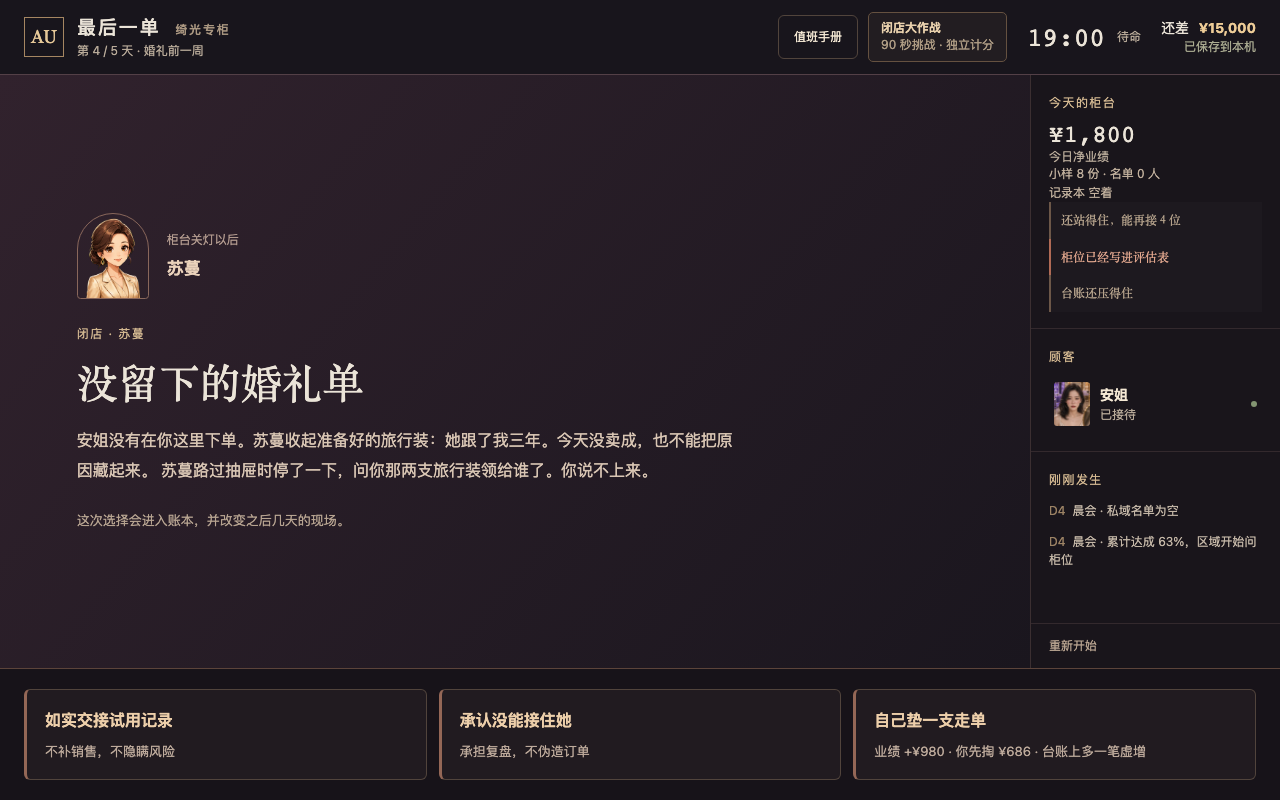
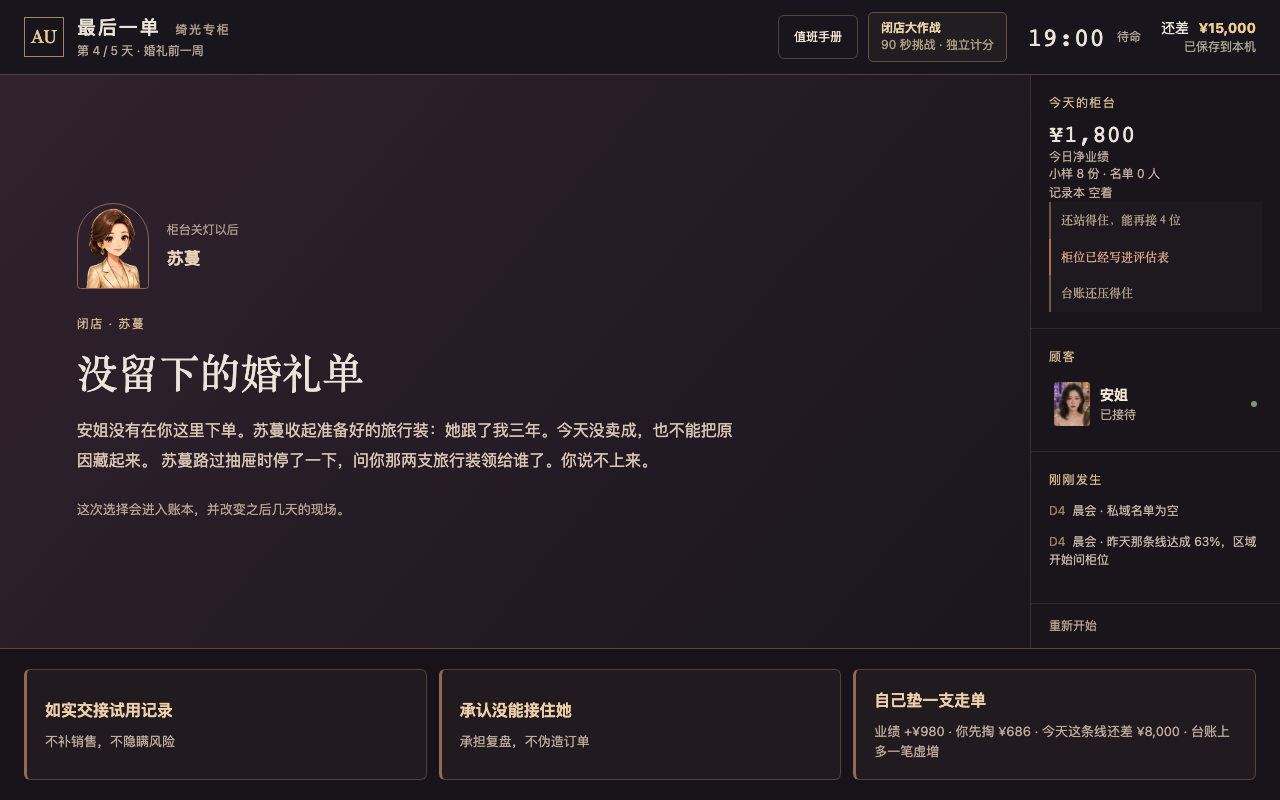
P33：晨会那一句改说「昨天那条线」，垫货那一格补写今天差多少
同一屏两个进度口径挂账三轮：125% 不是算错，是"累计"这个词把它读成了
"这一周到昨天做到哪了"。三个分支的晨会话都点名那条线，第 4 晚那一格的
第二行补上 progressTarget(day) - sales，两个时点各自有名，不用猜。
顺带撤回 P29 那句「daySales 减不出来」——它是错的，规则测试现在就拿
sales - daySales 立据。

diff --git a/dynamic-counter-prototype/rescue-e2e/advance-order.spec.ts b/dynamic-counter-prototype/rescue-e2e/advance-order.spec.ts
@@ -1,18 +1,21 @@
 // 第 4 晚那一格「自己垫一支走单」（调研：KPI 完不成时 BA 自掏腰包囤货，见 audit/research-2026-09 第三节）。
 // 沙盘这一屏守的是：落后的人才看得见它、按钮第二行写清掏多少和涨多少、钱只进一次只写一行、
-// 第 5 早按唐可出不出得掉念不同的那一句。钱数怎么分岔归规则单测管（tests/campaign-rules.test.ts）。
+// 第 5 早按唐可出不出得掉念不同的那一句。P33 加的那一条：这一格按的是"今天这条线"，差额写在按钮上，
+// 和同一屏上面那条"昨天那条线达成 125%"各说各的线 —— 落后与否不再有第二个答案。钱数怎么分岔归规则单测管。
 import { expect, test, type Page } from "@playwright/test";
-import { ADVANCE_SALE, advancePocket, floorCustomers, INITIAL, SAVE_KEY, SAVE_VERSION } from "../src/campaign";
+import { ADVANCE_SALE, advancePocket, floorCustomers, INITIAL, progressTarget, SAVE_KEY, SAVE_VERSION, startNextDay } from "../src/campaign";
 import { ledgerYuan } from "../tests/ledger-yuan";
 
 const BEHIND = 12_000;
 const AFTER = BEHIND + ADVANCE_SALE;
+// 这一格按下去的理由写在按钮上：差的就是"今天那条线"那一截（昨天的线她已经念到 125% 了）。
+const GAP = progressTarget(4) - BEHIND;
 const money = (value: number) => value.toLocaleString("zh-CN");
 const dayFourIds = floorCustomers({ ...INITIAL, day: 4 });
 
-async function evening(page: Page, patch: Record<string, unknown> = {}) {
+async function evening(page: Page, patch: Record<string, unknown> = {}, size: readonly [number, number] = [1280, 800]) {
   // 写在 goto 之后、reload 之前：addInitScript 每次导航都会重跑，那样"刷新回来"测的其实是又塞了一遍初始档。
-  await page.setViewportSize({ width: 1280, height: 800 });
+  await page.setViewportSize({ width: size[0], height: size[1] });
   await page.goto("/");
   await page.evaluate(({ key, value }) => localStorage.setItem(key, JSON.stringify(value)), {
     key: SAVE_KEY,
@@ -27,6 +30,52 @@ const savedNumber = (page: Page, field: string) => page.evaluate(([key, name]) =
 const card = (page: Page) => page.getByRole("button", { name: /自己垫一支走单/ });
 const yuanLine = (page: Page) => page.locator(".ledger-book p").filter({ hasText: `闭店调整 · 自己垫一支走单 · ¥${money(ADVANCE_SALE)}` });
 
+// 那条线不抄字：让规则管线从第 3 晚走到第 4 早，晨会那一行怎么写的就是玩家会读到的那样。
+const dayFourBrief = startNextDay({
+  ...INITIAL, version: SAVE_VERSION, day: 3, sales: BEHIND, daySales: 2_400, eventDoneDays: [1, 2], dayServed: floorCustomers({ ...INITIAL, day: 3 }),
+});
+
+test("第 4 晚那一屏只给一个答案的两条线：晨会念昨天的，这一格差今天的", async ({ page }) => {
+  await evening(page, { history: dayFourBrief.history });
+  // 12,000 对着昨天那条线（9,600）是 125%，对着今天这条线（14,000）还差 2,000 —— 同一屏两个数，各自说清是哪条线。
+  await expect(page.locator(".floor-journal")).toContainText("昨天那条线达成 125%");
+  await expect(page.locator(".floor-journal")).not.toContainText("累计达成");
+  await expect(card(page)).toContainText(`今天这条线还差 ¥${money(GAP)}`);
+  await page.screenshot({ path: "../audit/experience-v2/p33-sandbox-day4-two-lines.png" });
+});
+
+for (const size of [[1280, 800], [1280, 720], [1024, 700], [844, 390], [640, 800]] as const) {
+  test(`第二行多写一条线之后，那三格还在带里 @${size[0]}×${size[1]}`, async ({ page }) => {
+    await evening(page, {}, size);
+    // 量的是这一屏真长出来的那一格：第二行会不会折行、折了之后掉不掉出 overflow:hidden 那条带。
+    const seen = await page.evaluate(() => {
+      const row = document.querySelector<HTMLElement>(".event-options");
+      const band = row?.closest<HTMLElement>(".rescue-dock");
+      if (!row || !band) return null;
+      const buttons = [...row.querySelectorAll<HTMLElement>("button")];
+      const edge = band.getBoundingClientRect().bottom;
+      return {
+        n: buttons.length,
+        below: buttons.map(node => Math.round(node.getBoundingClientRect().bottom - edge)),
+        clipped: buttons.map(node => node.scrollHeight > node.clientHeight + 1),
+        px: buttons.map(node => Math.min(
+          parseFloat(getComputedStyle(node.querySelector("b")!).fontSize),
+          parseFloat(getComputedStyle(node.querySelector("span")!).fontSize))),
+        lines: buttons.map(node => {
+          const span = node.querySelector("span")!;
+          return Math.round(span.offsetHeight / parseFloat(getComputedStyle(span).lineHeight));
+        }),
+      };
+    });
+    expect(seen).not.toBeNull();
+    expect(seen!.n, "落后那一晚该有三格，其中一格是垫货").toBe(3);
+    expect(seen!.below.filter(px => px > 0), `有格子压在带底外 ${seen!.below.join("/")}`).toEqual([]);
+    expect(seen!.clipped.filter(Boolean), "有格子的字被切掉").toEqual([]);
+    expect(Math.min(...seen!.px), "按钮第二行掉到 12px 以下").toBeGreaterThanOrEqual(12);
+    expect(Math.max(...seen!.lines), "第二行折到第三行，这一格就读不完了").toBeLessThanOrEqual(2);
+  });
+}
+
 test("落后那一晚这一格按得动：钱只写一行，刷新也不丢", async ({ page }) => {
   await evening(page);
   // 小票价和她自己掏的那个数并排写在按钮第二行：只报一个数的人会以为垫货不花钱。
@@ -35,19 +84,19 @@ test("落后那一晚这一格按得动：钱只写一行，刷新也不丢", as
   await page.screenshot({ path: "../audit/experience-v2/p28-sandbox-day4-night.png" });
   await card(page).click();
   await expect(page.locator(".ledger-panel")).toBeVisible();
-  await expect(yuanLine(page)).toHaveCount(1, "同一支货写两遍，账就比钱多了");
+  await expect(yuanLine(page), "同一支货写两遍，账就比钱多了").toHaveCount(1);
   expect(await ledgerYuan(page)).toBe(ADVANCE_SALE);
   expect(await savedNumber(page, "sales")).toBe(AFTER);
   await page.reload();
   await expect(yuanLine(page)).toHaveCount(1);
-  expect(await savedNumber(page, "sales")).toBe(AFTER, "刷新回来那 980 还得在账上");
-  await expect(page.getByRole("button", { name: /自己垫一支走单/ })).toHaveCount(0, "刷新回来落在今日账单那一屏，不再回到当晚的选择");
+  expect(await savedNumber(page, "sales"), "刷新回来那 980 还得在账上").toBe(AFTER);
+  await expect(page.getByRole("button", { name: /自己垫一支走单/ }), "刷新回来落在今日账单那一屏，不再回到当晚的选择").toHaveCount(0);
 });
 
 test("数字追上进度那一晚看不见这一格", async ({ page }) => {
   await evening(page, { sales: 14_770 });
   await expect(card(page)).toHaveCount(0);
-  await expect(page.locator(".event-options button")).toHaveCount(2, "那一晚别的格子还在，只是不白送一次业绩");
+  await expect(page.locator(".event-options button"), "那一晚别的格子还在，只是不白送一次业绩").toHaveCount(2);
 });
 
 test("第 5 早：出不掉的那一支由方敏念，钱不再进一次", async ({ page }) => {
@@ -57,7 +106,7 @@ test("第 5 早：出不掉的那一支由方敏念，钱不再进一次", async
   await expect(page.locator(".dawn-note").filter({ hasText: `¥${money(ADVANCE_SALE)} 找不到对应的客人` })).toHaveCount(1);
   await expect(page.locator(".dawn-note").filter({ hasText: "唐可 · 柜后" })).toHaveCount(0);
   await page.screenshot({ path: "../audit/experience-v2/p28-sandbox-day5-held.png" });
-  expect(await savedNumber(page, "sales")).toBe(AFTER, "替自己出货不能再进一次业绩");
+  expect(await savedNumber(page, "sales"), "替自己出货不能再进一次业绩").toBe(AFTER);
 });
 
 test("第 5 早：她出得掉那支，唐可念的是钱回来", async ({ page }) => {

diff --git a/dynamic-counter-prototype/tests/campaign-rules.test.ts b/dynamic-counter-prototype/tests/campaign-rules.test.ts
@@ -5,6 +5,7 @@ import {
   ENERGY_LOCK, energyWord, evidenceWord, fitOf, floorCustomers, hasFlag, hasRecords, history, INITIAL, LEAVE_SAMPLE_RETURN, leaveSample, ledgerSum, openFloorState, parseCampaign,
   ADVANCE_COMPLIANCE, ADVANCE_HELD_COMPLIANCE, ADVANCE_HELD_STANDING, ADVANCE_SALE, ADVANCE_TANGKE, advancePocket, dayEvent, settleDayEvent, startNextDay, TANGKE_STOCK_GATE, visibleChoices,
   PRODUCTS, QUESTIONS, RECORDS_MIN, resolveSale, RIVAL_INTERRUPTIONS, SAMPLE_RETURN_SALE, SAVE_VERSION, STANDING_RISK, TARGET, DELIVERIES, FIRST_DAY_STOCK, deliveryWord, TRANSFER_UNITS, WEEK_ALLOCATION, touchThreads,
+  morningReview, progressTarget,
   PRICE_GAP, PRICE_PAD_SAMPLES,
   TOUCHES_PER_EVENING, touchesLeft, structureLine, weekStructure, type BundleId, type Campaign,
 } from "../src/campaign.ts";
@@ -637,4 +638,45 @@ test("第 4 晚念得到昨晚的答案，晨会那一屏不因此多一张卡",
   const notes = (s: Campaign) => dawnNotices(startNextDay(s)).length;
   assert.equal(notes(explained), notes(quiet), "第 4 早的告示数不该因为这一格多一条");
   assert.equal(notes(padded), notes(quiet));
+});
+
+// —— P33 同一屏两个进度口径。分子含今早到账是 `applyDawn` 末尾故意定的（补录、退货、私域复购都算进进度），
+// 所以错的是那句话自己的说法：写着"累计"，读的却是"到昨天为止"。改完之后两条线各自有名 ——
+// 晨会念「昨天那条线 ¥14,000，你 118%」，第 4 晚那一格写「今天这条线还差 ¥2,000」。
+test("晨会那一句说的是昨天那条线，不是这一周做到哪了", () => {
+  // 第 5 早：昨晚 14,770，今早赵青那一单 1,680 进来 → 账上 16,450。
+  const dawned = applyDawn(campaign({ day: 5, sales: 14_770, flags: ["protected-zhao"] }));
+  assert.equal(dawned.sales - dawned.daySales, 14_770, "今早进来的那一份要能减出来");
+  const review = morningReview(dawned)!;
+  assert.ok(review.text.includes("昨天那条线达成 118%"), `念的应该是昨天那条线：${review.text}`);
+  assert.ok(!review.text.includes("累计") && !review.body.includes("累计"), "『累计』就是那个没交代时点的词");
+  assert.ok(review.body.includes(`¥${yuan(progressTarget(4))}`), "卡片要把那条线的数念出来，玩家才知道 118% 是对着谁算的");
+  // 同一份钱对着今天的线只有 78%：如果哪天有人把分母换成 progressTarget(day)，这一条会红。
+  assert.ok(!review.text.includes("78%") && !review.body.includes("78%"), "晨会念的不是今天那条线");
+  // 四个早晨逐个查：每一早的数字都对着前一天的线。
+  const evenings: Campaign[] = [];
+  runRoute("matched", false, false, false, null, undefined, undefined, false, false, settled => evenings.push(settled));
+  for (const [index, settled] of evenings.entries()) {
+    const brief = startNextDay(settled);
+    const line = morningReview(brief);
+    if (!line) continue;
+    const againstYesterday = Math.round(brief.sales / progressTarget(brief.day - 1) * 100);
+    assert.ok(line.text.includes(`昨天那条线达成 ${againstYesterday}%`), `第 ${index + 2} 早：${line.text}`);
+    assert.ok(!line.text.includes("累计") && !line.body.includes("累计"), `第 ${index + 2} 早又把时点省掉了：${line.body}`);
+  }
+});
+
+test("垫货那一格把差的那一截写在按钮上，做到就不出现", () => {
+  const dayFour = (sales: number) => campaign({ day: 4, sales, eventDoneDays: [1, 2, 3] });
+  const today = progressTarget(4);
+  for (const sales of [9_600, 12_000, 13_020]) {
+    const card = priceOf(dayFour(sales), "advance-order")!;
+    assert.ok(card.detail.includes(`今天这条线还差 ¥${yuan(today - sales)}`), `¥${sales} 那一晚按钮要念出差额：${card.detail}`);
+    assert.ok(today - sales > 0, "这一格只在线没做到时出现，所以念出来的必定是正数");
+  }
+  assert.equal(priceOf(dayFour(14_770), "advance-order"), undefined, "今天这条线做到了，就不该再劝人垫钱");
+  // 垫完那一支，缺口按 980 收：第 5 早晨会念的是垫过之后的账。
+  const after = settleDayEvent(dayFour(12_000), "advance-order");
+  assert.equal(after.sales, 12_000 + ADVANCE_SALE);
+  assert.ok(morningReview({ ...after, day: 5 })!.text.includes(`昨天那条线达成 ${Math.round(after.sales / progressTarget(4) * 100)}%`));
 });

diff --git a/dynamic-counter-prototype/src/campaign.ts b/dynamic-counter-prototype/src/campaign.ts
@@ -648,14 +648,17 @@ export const thisWeekPercent = (s: Campaign) => { const need = progressTarget(s.
 export type CounterReading = { key: string; speaker: string; body: string; text: string; standing: number; roman: number };
 
 // 纯函数：只读当前状态、不写 flag，所以 dawnNotices 反复算出的都是同一句话。
+// 分母是昨天那条线，分子是账上现在的钱（含今早到账 —— 见 `applyDawn` 末尾那句注释），所以三个分支都把线说成
+// 「昨天那条线」、把数说成「你账上」：写成「累计 X%」时玩家读到的是"这一周到昨天已经 125%"，而那句话从来不是这个意思，
+// 同一屏下面「自己垫一支走单」又是按今天的线给的（差 ¥2,000）—— 落后与否在一屏里得到两个答案，界面没说为什么。
 export function morningReview(s: Campaign): CounterReading | null {
   if (s.day < 2) return null;
   const need = progressTarget(s.day - 1);
   const done = Math.round((need ? s.sales / need : 1) * 100);
   const base = { key: `morning:${s.day}`, speaker: "晨会 · 罗曼", standing: 0, roman: 0 };
-  if (done >= 100) return { ...base, standing: 5, roman: 2, text: `晨会 · 累计达成 ${done}%，进度在你这边`, body: `罗曼念到累计 ${done}%：${money(need)} 的进度你超前了。区域周会上，她把这个柜位排在前面。` };
-  if (done >= 80) return { ...base, text: `晨会 · 累计达成 ${done}%，差一点`, body: `罗曼没有点名：${money(need)} 的进度你做到 ${done}%，她说还差最后一天的量。` };
-  return { ...base, standing: -8, roman: -3, text: `晨会 · 累计达成 ${done}%，区域开始问柜位`, body: `累计 ${money(need)} 你只做到 ${done}%。罗曼合上表格，说区域在问这个柜位还要不要留。` };
+  if (done >= 100) return { ...base, standing: 5, roman: 2, text: `晨会 · 昨天那条线达成 ${done}%，进度在你这边`, body: `罗曼念的是昨天那条线 ¥${money(need)}：你已经 ${done}%。区域周会上，她把这个柜位排在前面。` };
+  if (done >= 80) return { ...base, text: `晨会 · 昨天那条线达成 ${done}%，差一点`, body: `罗曼没有点名：昨天那条线 ¥${money(need)}，你做到 ${done}%，她说还差最后一天的量。` };
+  return { ...base, standing: -8, roman: -3, text: `晨会 · 昨天那条线达成 ${done}%，区域开始问柜位`, body: `昨天那条线 ¥${money(need)}，你只做到 ${done}%。罗曼合上表格，说区域在问这个柜位还要不要留。` };
 }
 
 // 活动过半看名单，巡店当天看小样：这两项才是品牌真正在数的东西。
@@ -983,10 +986,12 @@ export function dayEvent(s: Campaign): DayEvent {
   }
   // 第 4 晚才给这一格：前三晚的缺口还来得及靠接待补，第四晚已经来不及了 —— 这正是它真实出现的时机。
   // 价目写在按钮第二行（和「迎上去」「留小样」同一种语法）：涨的是小票上的 980，掏的是自己工资里的 686。
+  // 最后那一个是这一格存在的原因：闸按今天的线算（`visible`），所以差额在这里必定是正数，写出来玩家才能把
+  // 上面那条「昨天那条线达成 125%」和这一格放在一起读 —— 两个时点，两条线，不用猜。
   const advanceCard: EventChoice = {
     id: "advance-order",
     label: "自己垫一支走单",
-    detail: `业绩 +¥${money(ADVANCE_SALE)} · 你先掏 ¥${money(advancePocket())} · 台账上多一笔虚增`,
+    detail: `业绩 +¥${money(ADVANCE_SALE)} · 你先掏 ¥${money(advancePocket())} · 今天这条线还差 ¥${money(progressTarget(s.day) - s.sales)} · 台账上多一笔虚增`,
     result: "唐可替你在系统里开了那张单。收银条写着你的名字，货搬进你自己的包。",
     // 两道闸：当晚没结过（`settleDayEvent` 认 eventDoneDays）+ 这一整周没垫过。
     // 注意 `visible` 是按当下状态算的，按下去之后它会翻假 —— 手机版的确认屏因此不能只读 visibleChoices。

diff --git a/dynamic-counter-prototype/rescue-e2e/dawn-order.spec.ts b/dynamic-counter-prototype/rescue-e2e/dawn-order.spec.ts
@@ -54,6 +54,26 @@ for (const [width, height, strict] of [[1280, 800, true], [1280, 720, true], [10
     expect(seen!.atTop[index], `方敏那一句在不滚时只露 ${seen!.atTop[index]}/${seen!.heights[index]}px`).toBe(seen!.heights[index]);
     if (width === 1280 && height === 800) await page.screenshot({ path: "../audit/experience-v2/p29-day5-fangmin-at-top.png" });
   });
+  // P33：落后那一档念的是另一种句子（「昨天那条线 ¥14,000，你只做到 57%…」）。清洁路线第 5 早走的是超前那一档，
+  // 所以另外种一次真跑不到线的状态，把同一批像素再量一遍 —— 换字不该只在不落后的那一早成立。
+  if (strict) test(`落后那一档的晨会卡在 ${width}×${height} 也整条在脚以上`, async ({ page }) => {
+    await page.setViewportSize({ width, height });
+    await page.goto("/");
+    await page.evaluate(({ key, value }) => localStorage.setItem(key, JSON.stringify(value)), {
+      key: SAVE_KEY,
+      value: { ...INITIAL, version: SAVE_VERSION, day: 4, sales: 8_000, daySales: 800, eventDoneDays: [1, 2, 3], dayServed: floorCustomers({ ...INITIAL, day: 4 }) },
+    });
+    await page.reload();
+    await page.getByRole("button", { name: /如实交接试用记录/ }).click();
+    await page.getByRole("button", { name: "进入下一天", exact: true }).click();
+    const seen = await measure(page);
+    expect(seen).not.toBeNull();
+    const index = seen!.text.findIndex(text => text.startsWith("晨会 · 罗曼"));
+    expect(index, "第 5 早没念进度的那一张").toBeGreaterThanOrEqual(0);
+    expect(seen!.text[index], "落后那一早念的是昨天那条线，不是『累计做到多少』").toContain("晨会 · 罗曼昨天那条线 ¥");
+    expect(seen!.text[index], "落后那一早的数字要对着 14,000 那条线").toContain("你只做到 57%");
+    expect(seen!.atTop[index], `晨会那一张只露 ${seen!.atTop[index]}/${seen!.heights[index]}px`).toBe(seen!.heights[index]);
+  });
   for (const evening of evenings) {
     test(`第 ${evening.nextDay} 早的告示顺序在 ${width}×${height} 读得到：回账整条在脚以上`, async ({ page }) => {
       await page.setViewportSize({ width, height });

diff --git a/dynamic-counter-prototype/rescue-e2e/experience.spec.ts b/dynamic-counter-prototype/rescue-e2e/experience.spec.ts
@@ -114,7 +114,7 @@ test("a lost-opportunity route completes all five days without inventing purchas
     if (day > 1) {
       // 开始营业之前就得读到晨会那句话；第 5 天还多一条巡店盘库。
       const morning = page.locator(".shift-intro blockquote").filter({ hasText: "区域在问这个柜位" });
-      await expect(morning).toHaveText(new RegExp(`累计 .*你只做到 0%`), "第 " + day + " 天念的是到昨天为止的累计");
+      await expect(morning, "第 " + day + " 天念的是昨天那条线").toHaveText(new RegExp(`昨天那条线 .*你只做到 0%`));
       if (day === 5) await expect(page.locator(".shift-intro blockquote").filter({ hasText: "你还压着 8 份小样" })).toBeVisible();
       if (day === 2) await page.screenshot({ path: shots + "morning-brief.png" });
       await page.getByRole("button", { name: "开始营业", exact: true }).click();
@@ -127,7 +127,7 @@ test("a lost-opportunity route completes all five days without inventing purchas
     }).toBe(1);
     if (day === 5) {
       await expect(page.getByRole("heading", { name: "柜位在评估表上", exact: true })).toBeVisible();
-      await expect(page.getByRole("button", { name: /把私域名单放在桌上/ })).toHaveCount(0, "一个名单都没留下的人，交不出人数");
+      await expect(page.getByRole("button", { name: /把私域名单放在桌上/ }), "一个名单都没留下的人，交不出人数").toHaveCount(0);
       // 五天没接到人，本子里只剩事件里那两行——她得先看见这件事，才不会以为摊开就能救。
       await expect(page.getByText("只是你的本子摊开来没几行")).toBeVisible();
     }

diff --git a/dynamic-counter-prototype/tests/counter-standing.test.ts b/dynamic-counter-prototype/tests/counter-standing.test.ts
@@ -23,15 +23,15 @@ test("每日进度加起来就是同一个五日目标，不另开记分牌", ()
   assert.equal(progressTarget(99), TARGET, "越界不能读出第二份目标");
 });
 
-test("晨会按累计进度说话，超前加分、落后才提撤柜", () => {
+test("晨会按昨天那条线说话，超前加分、落后才提撤柜", () => {
   const ahead = campaign({ day: 3, sales: 7070 });
   const review = morningReview(ahead)!;
   assert.equal(review.key, "morning:3");
-  assert.ok(review.body.includes("118%"), "念的是到昨天为止的累计");
+  assert.ok(review.body.includes("118%"), "念的是昨天那条线，分子是账上现在的钱");
   const applied = applyDawn(ahead);
   assert.equal(applied.standing, 55);
   assert.equal(applied.relations.roman, 47);
-  assert.ok(applied.history.some(entry => entry.text.includes("累计达成 118%")));
+  assert.ok(applied.history.some(entry => entry.text.includes("昨天那条线达成 118%")));
   assert.ok(dawnNotices(applied).some(note => note.body.includes("区域周会")), "晨会要出现在当天的告示里");
   // 同一天的晨会只念一次。
   assert.equal(applyDawn(applied).standing, 55);

diff --git a/dynamic-counter-prototype/rescue-e2e/counter.spec.ts b/dynamic-counter-prototype/rescue-e2e/counter.spec.ts
@@ -499,7 +499,7 @@ test("the morning read states the settled number once, and a reload does not rep
   await expect(page.locator(".top-score")).toContainText("还差 ¥19,500");
   await expect(page.locator(".rail-target")).toHaveCount(0);
   await expect(page.locator(".target-track")).toHaveCount(0);
-  await expect(page.locator(".floor-journal")).toContainText("晨会 · 累计达成 54%");
+  await expect(page.locator(".floor-journal")).toContainText("晨会 · 昨天那条线达成 54%");
   await page.screenshot({ path: "../audit/experience-v2/morning-standing.png" });
   await page.reload();
   const saved = await page.evaluate(key => JSON.parse(localStorage.getItem(key) ?? "{}") as typeof INITIAL, SAVE_KEY);
